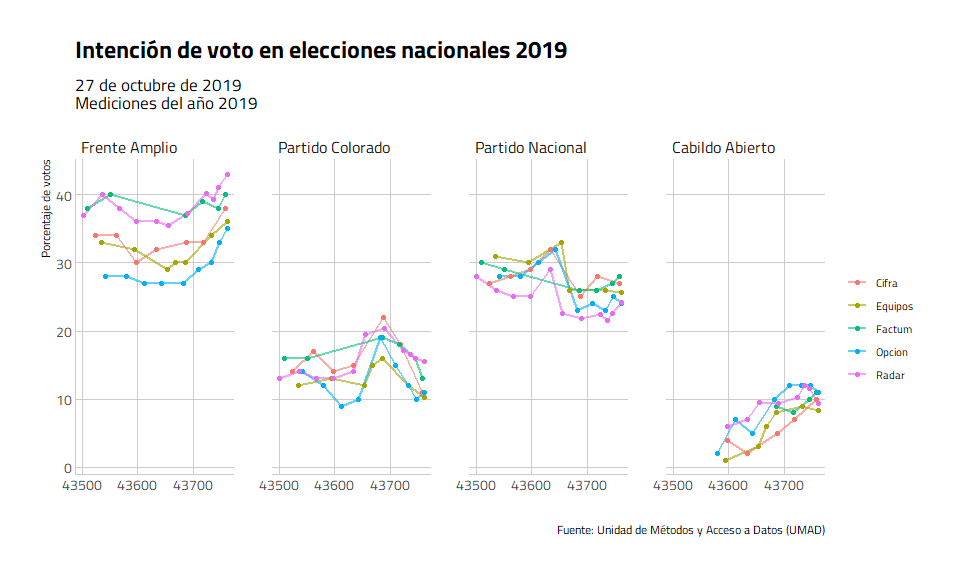
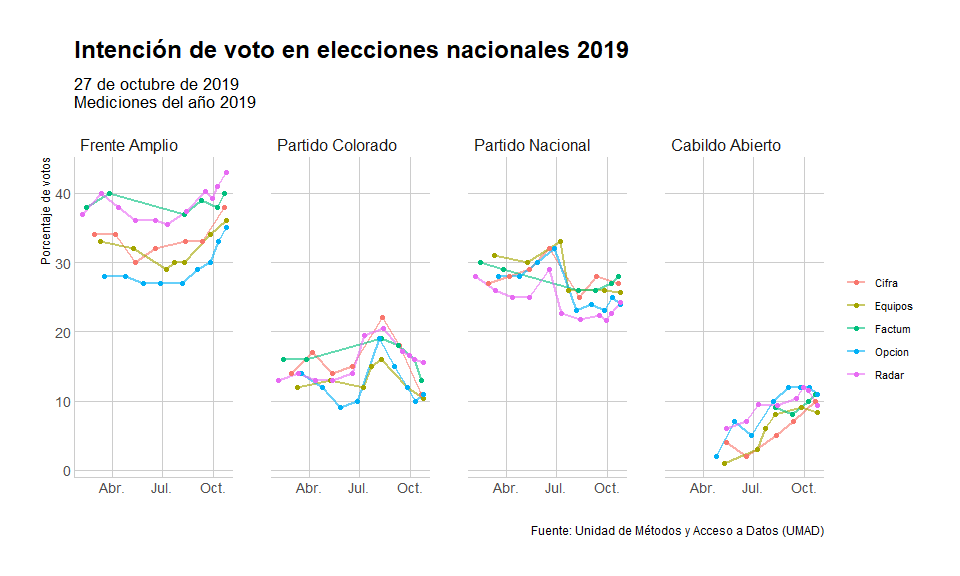
ahora la variable fecha es .Date

diff --git a/README.md b/README.md
@@ -169,6 +169,58 @@ opuy %>%
          title = "Evaluacion de la gestión del presidente",
          subtitle = 'Serie histórica con datos de todas las consultoras (promedios anuales)',
          caption = 'Fuente: Unidad de Métodos y Acceso a Datos (UMAD)')
+#> Warning in grid.Call(C_textBounds, as.graphicsAnnot(x$label), x$x, x$y, : font
+#> family not found in Windows font database
+
+#> Warning in grid.Call(C_textBounds, as.graphicsAnnot(x$label), x$x, x$y, : font
+#> family not found in Windows font database
+
+#> Warning in grid.Call(C_textBounds, as.graphicsAnnot(x$label), x$x, x$y, : font
+#> family not found in Windows font database
+
+#> Warning in grid.Call(C_textBounds, as.graphicsAnnot(x$label), x$x, x$y, : font
+#> family not found in Windows font database
+
+#> Warning in grid.Call(C_textBounds, as.graphicsAnnot(x$label), x$x, x$y, : font
+#> family not found in Windows font database
+
+#> Warning in grid.Call(C_textBounds, as.graphicsAnnot(x$label), x$x, x$y, : font
+#> family not found in Windows font database
+
+#> Warning in grid.Call(C_textBounds, as.graphicsAnnot(x$label), x$x, x$y, : font
+#> family not found in Windows font database
+
+#> Warning in grid.Call(C_textBounds, as.graphicsAnnot(x$label), x$x, x$y, : font
+#> family not found in Windows font database
+
+#> Warning in grid.Call(C_textBounds, as.graphicsAnnot(x$label), x$x, x$y, : font
+#> family not found in Windows font database
+
+#> Warning in grid.Call(C_textBounds, as.graphicsAnnot(x$label), x$x, x$y, : font
+#> family not found in Windows font database
+#> Warning in grid.Call.graphics(C_text, as.graphicsAnnot(x$label), x$x, x$y, :
+#> font family not found in Windows font database
+#> Warning in grid.Call(C_textBounds, as.graphicsAnnot(x$label), x$x, x$y, : font
+#> family not found in Windows font database
+
+#> Warning in grid.Call(C_textBounds, as.graphicsAnnot(x$label), x$x, x$y, : font
+#> family not found in Windows font database
+#> Warning in grid.Call.graphics(C_text, as.graphicsAnnot(x$label), x$x, x$y, :
+#> font family not found in Windows font database
+#> Warning in grid.Call(C_textBounds, as.graphicsAnnot(x$label), x$x, x$y, : font
+#> family not found in Windows font database
+
+#> Warning in grid.Call(C_textBounds, as.graphicsAnnot(x$label), x$x, x$y, : font
+#> family not found in Windows font database
+
+#> Warning in grid.Call(C_textBounds, as.graphicsAnnot(x$label), x$x, x$y, : font
+#> family not found in Windows font database
+
+#> Warning in grid.Call(C_textBounds, as.graphicsAnnot(x$label), x$x, x$y, : font
+#> family not found in Windows font database
+
+#> Warning in grid.Call(C_textBounds, as.graphicsAnnot(x$label), x$x, x$y, : font
+#> family not found in Windows font database
 ```
 
 <img src="man/figures/README-unnamed-chunk-6-1.png" width="100%" />
